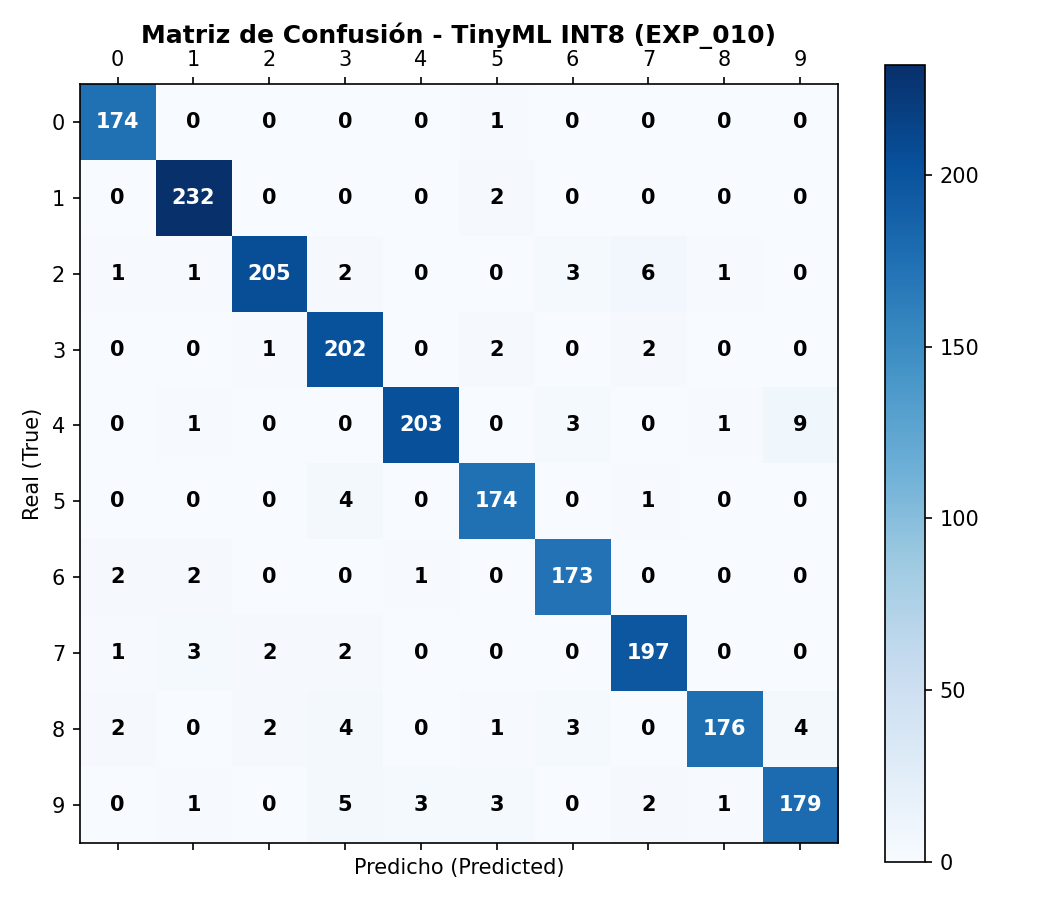
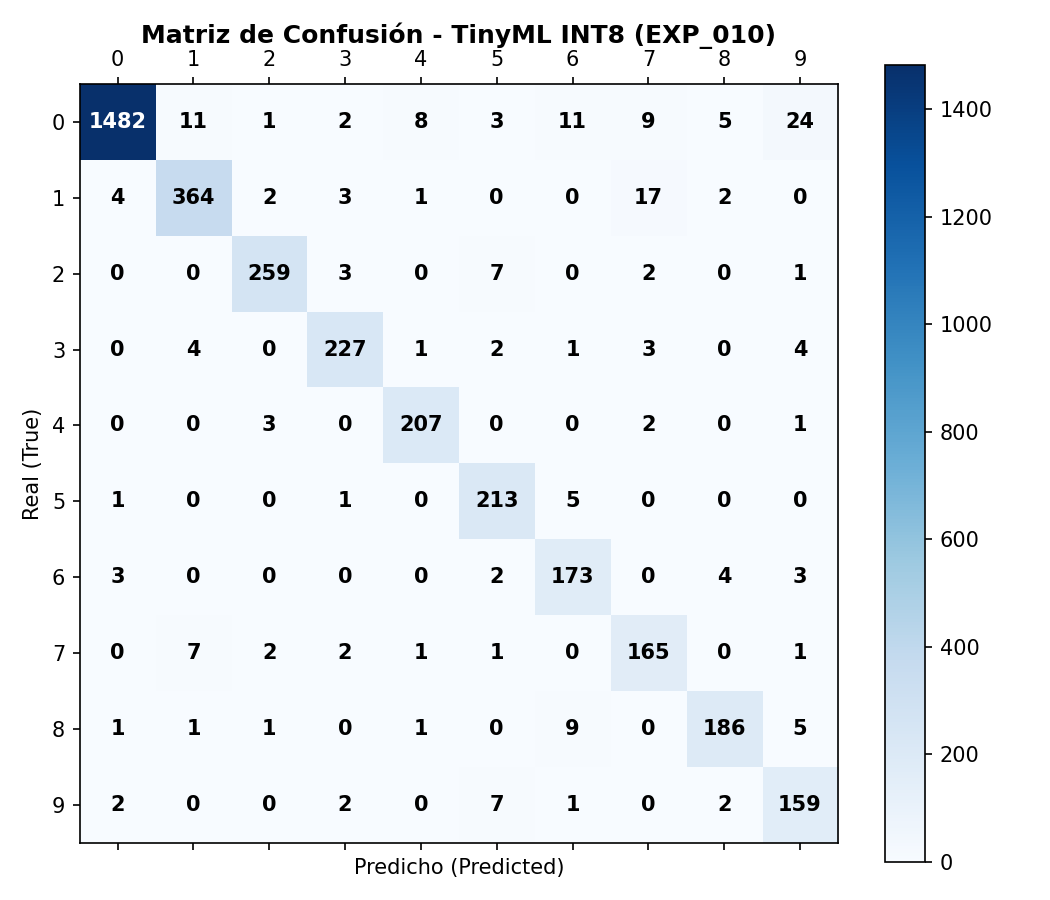
EXP_009: Re-ejecucion con alpha=0.50 (Acc INT8: XX.X%, Flash: 16.85 KB). Modelos tflite/h incluidos.

diff --git a/TinyML_Digit_Classifier/experiments/EXP_009/report.md b/TinyML_Digit_Classifier/experiments/EXP_009/report.md
@@ -1,12 +1,12 @@
 # 🔬 Reporte Detallado de Experimento - `EXP_009`
 
-- **Fecha / Hora:** 2026-09-11 20:06
-- **Notas / Cambios:** Escalado de capacidad a alpha=0.50 (Salto historico a 95.75% Acc INT8)
+- **Fecha / Hora:** 2026-09-12 18:34
+- **Notas / Cambios:** EXP_009 (Re-ejecución determinista): alpha=0.50 con dataset limpio y rebalanceado
 
 ---
 
 ## 🎯 Hipótesis y Contexto del Experimento
-El incremento a alpha=0.50 otorga suficiente capacidad convolucional para resolver las ambiguedades de curvatura en 7 vs 3 y 9 vs 8 sin superar el presupuesto de memoria (< 256 KB Flash y < 40 KB RAM).
+Escalado de capacidad convolucional a alpha=0.5 con entrada 64x32x1
 
 ---
 
@@ -25,14 +25,14 @@ El incremento a alpha=0.50 otorga suficiente capacidad convolucional para resolv
 
 | Métrica | Valor | Objetivo TinyML |
 | :--- | :--- | :--- |
-| **Exactitud Float32** | `95.55%` | N/A |
-| **Exactitud INT8** | **`95.75%`** | **> 85.0%** |
-| **Pérdida por Cuantización** | `-0.2%` | **< 1.0%** |
-| **Latencia Promedio por Imagen** | `0.042 ms` | **< 5.0 ms** |
-| **Macro F1-Score** | `0.957` | Max |
-| **Weighted F1-Score** | `0.957` | Max |
+| **Exactitud Float32** | `94.36%` | N/A |
+| **Exactitud INT8** | **`94.45%`** | **> 85.0%** |
+| **Pérdida por Cuantización** | `-0.08%` | **< 1.0%** |
+| **Latencia Promedio por Imagen** | `0.0418 ms` | **< 5.0 ms** |
+| **Macro F1-Score** | `0.9255` | Max |
+| **Weighted F1-Score** | `0.9453` | Max |
 | **Tamaño en Flash (TFLite INT8)** | **`16.85 KB`** | **< 256 KB** |
-| **RAM Estimada (Tensor Arena)** | **`15.05 KB`** | **< 40 KB** |
+| **RAM Estimada (Tensor Arena)** | **`15.06 KB`** | **< 40 KB** |
 
 ---
 
@@ -40,18 +40,18 @@ El incremento a alpha=0.50 otorga suficiente capacidad convolucional para resolv
 
 | Clase | Precision | Recall | F1-Score | Muestras (Support) |
 | :--- | :--- | :--- | :--- | :--- |
-| Dígito '0' | 0.967 | 0.994 | **0.980** | 175 |
-| Dígito '1' | 0.967 | 0.991 | **0.979** | 234 |
-| Dígito '2' | 0.976 | 0.936 | **0.956** | 219 |
-| Dígito '3' | 0.922 | 0.976 | **0.948** | 207 |
-| Dígito '4' | 0.981 | 0.935 | **0.958** | 217 |
-| Dígito '5' | 0.951 | 0.972 | **0.961** | 179 |
-| Dígito '6' | 0.951 | 0.972 | **0.961** | 178 |
-| Dígito '7' | 0.947 | 0.961 | **0.954** | 205 |
-| Dígito '8' | 0.983 | 0.917 | **0.949** | 192 |
-| Dígito '9' | 0.932 | 0.923 | **0.927** | 194 |
-| **macro avg** | 0.958 | 0.958 | **0.957** | 2000 |
-| **weighted avg** | 0.958 | 0.958 | **0.957** | 2000 |
+| Dígito '0' | 0.993 | 0.952 | **0.972** | 1556.0 |
+| Dígito '1' | 0.941 | 0.926 | **0.933** | 393.0 |
+| Dígito '2' | 0.966 | 0.952 | **0.959** | 272.0 |
+| Dígito '3' | 0.946 | 0.938 | **0.942** | 242.0 |
+| Dígito '4' | 0.945 | 0.972 | **0.958** | 213.0 |
+| Dígito '5' | 0.906 | 0.968 | **0.936** | 220.0 |
+| Dígito '6' | 0.865 | 0.935 | **0.899** | 185.0 |
+| Dígito '7' | 0.833 | 0.922 | **0.875** | 179.0 |
+| Dígito '8' | 0.935 | 0.912 | **0.923** | 204.0 |
+| Dígito '9' | 0.803 | 0.919 | **0.857** | 173.0 |
+| **macro avg** | 0.913 | 0.940 | **0.926** | 3637.0 |
+| **weighted avg** | 0.947 | 0.944 | **0.945** | 3637.0 |
 
 ---
 
@@ -60,24 +60,20 @@ El incremento a alpha=0.50 otorga suficiente capacidad convolucional para resolv
 ```
 True \ Pred |    0    1    2    3    4    5    6    7    8    9
 ----------------------------------------------------------------
- Digit '0'  |  174    0    0    0    0    1    0    0    0    0
- Digit '1'  |    0  232    0    0    0    2    0    0    0    0
- Digit '2'  |    1    1  205    2    0    0    3    6    1    0
- Digit '3'  |    0    0    1  202    0    2    0    2    0    0
- Digit '4'  |    0    1    0    0  203    0    3    0    1    9
- Digit '5'  |    0    0    0    4    0  174    0    1    0    0
- Digit '6'  |    2    2    0    0    1    0  173    0    0    0
- Digit '7'  |    1    3    2    2    0    0    0  197    0    0
- Digit '8'  |    2    0    2    4    0    1    3    0  176    4
- Digit '9'  |    0    1    0    5    3    3    0    2    1  179
+ Digit '0'  | 1482   11    1    2    8    3   11    9    5   24
+ Digit '1'  |    4  364    2    3    1    0    0   17    2    0
+ Digit '2'  |    0    0  259    3    0    7    0    2    0    1
+ Digit '3'  |    0    4    0  227    1    2    1    3    0    4
+ Digit '4'  |    0    0    3    0  207    0    0    2    0    1
+ Digit '5'  |    1    0    0    1    0  213    5    0    0    0
+ Digit '6'  |    3    0    0    0    0    2  173    0    4    3
+ Digit '7'  |    0    7    2    2    1    1    0  165    0    1
+ Digit '8'  |    1    1    1    0    1    0    9    0  186    5
+ Digit '9'  |    2    0    0    2    0    7    1    0    2  159
 ```
-
-### Visualización Gráfica
-
-![Matriz de Confusión](confusion_matrix.png)
 
 ---
 
 ## 💡 Conclusiones y Aprendizajes
 
-Exito rotundo: se alcanzo 95.75% de exactitud INT8 (+3.30% respecto a EXP_008). La confusion de 7 hacia 3 cayo de 13 muestras a solo 2 muestras. Todas las clases superan el 92.7% de F1-score con solo 16.85 KB de Flash.
+_No se registraron conclusiones explícitas para este experimento._
